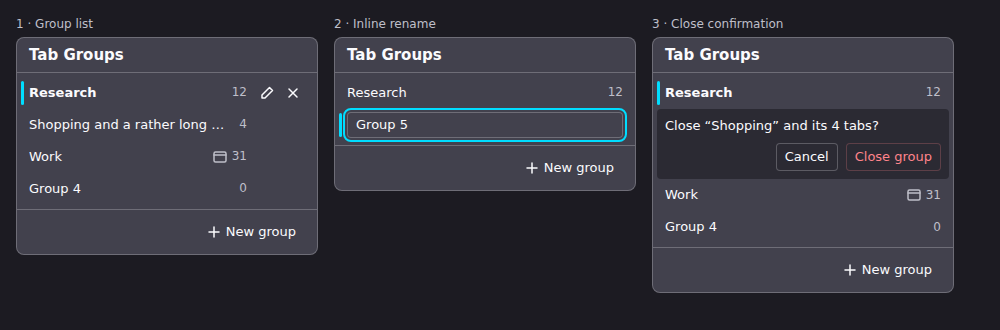
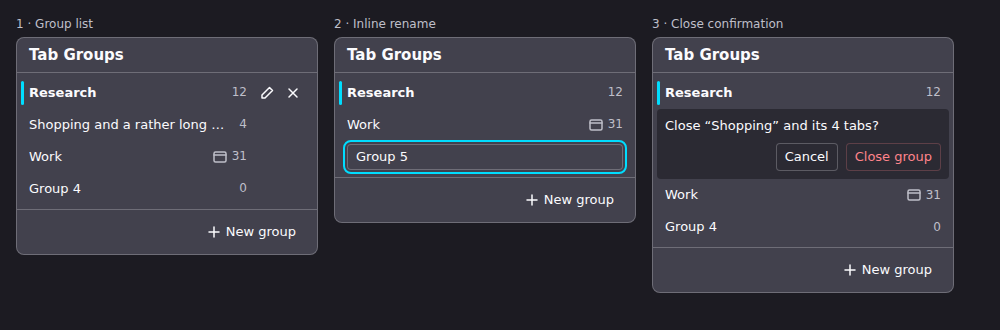
docs(spec): address spec review for group core
D9 hides tabs of inactive groups instead of adopting them, D8 is the only
window-invariant exception, D15 no longer switches, D5 serialises through
Web Locks; architecture flows 1 and 4 and the fakes row follow the spec.

Changed region(s): [[0.341, 0.2727, 0.651, 0.5455], [0.31, 0.5758, 0.651, 0.697]]

diff --git a/docs/design/prototypes/group-core.html b/docs/design/prototypes/group-core.html
@@ -230,7 +230,7 @@
       <symbol id="i-window" viewBox="0 0 16 16"><rect x="2" y="3" width="12" height="10" rx="1.5" /><path d="M2 6h12" /></symbol>
     </svg>
 
-    <!-- Frame 1: group list (D17 marker, D21 counts, active-elsewhere marker) -->
+    <!-- Frame 1: group list (D20 active-here / active-elsewhere markers, D21 counts) -->
     <figure>
       <figcaption>1 · Group list</figcaption>
       <div class="popup">
@@ -284,16 +284,19 @@
       </div>
     </figure>
 
-    <!-- Frame 2: inline rename (D15 after create, D16 Enter/blur saves, Escape cancels) -->
+    <!-- Frame 2: inline rename right after "New group" (D15: appended, no switch; D16 Enter/blur saves, Escape cancels) -->
     <figure>
       <figcaption>2 · Inline rename</figcaption>
       <div class="popup">
         <header class="bar bar--header"><h1>Tab Groups</h1></header>
         <ul class="list" aria-label="Groups">
-          <li class="row">
-            <button class="row__switch"><span class="row__title">Research</span><span class="row__meta" aria-hidden="true">12</span><span class="visually-hidden">12 tabs</span></button>
-          </li>
           <li class="row row--active">
+            <button class="row__switch" aria-current="true"><span class="row__title">Research</span><span class="row__meta" aria-hidden="true">12</span><span class="visually-hidden">12 tabs</span></button>
+          </li>
+          <li class="row">
+            <button class="row__switch"><span class="row__title">Work</span><span class="row__meta" aria-hidden="true"><svg class="icon"><use href="#i-window" /></svg>31</span><span class="visually-hidden">31 tabs, open in another window</span></button>
+          </li>
+          <li class="row">
             <input class="input" type="text" value="Group 5" aria-label="Group name" autofocus />
           </li>
         </ul>

diff --git a/docs/specs/spec-group-core.md b/docs/specs/spec-group-core.md
@@ -12,15 +12,18 @@ A completed spec is moved to `docs/specs/archive/`.
 
 ## Outcome
 
-- [ ] `test/fakes/` provides in-memory fakes of `tabs`, `windows`, `sessions`,
-      `storage` (`local` and `session`) and `action`, each with a `reset()`, plus
-      contract tests that encode the observed Firefox behaviour listed under
-      Constraints (F1–F9).
+- [ ] `test/fakes/` provides in-memory fakes of `tabs` (incl. `hidden`,
+      `pinned`, `active`, `discarded`, `lastAccessed`, native `groupId`,
+      `ungroup`, sharing state), `windows`, `sessions`, `storage` (`local` and
+      `session`), `action`, `runtime` (messages, `onStartup`), `i18n` and a
+      Web Locks stand-in, each with a `reset()`, plus `simulateRestart()` and
+      `simulateDisableEnable()` (see Verification), and contract tests that
+      encode the observed Firefox behaviour listed under Constraints (F1–F10).
 - [ ] On first start every open normal window gets its own group that holds all
       of its non-pinned tabs; no tab is hidden by the first start.
 - [ ] Every window shows exactly one group. Every visible non-pinned tab belongs
-      to its window's active group (the **window invariant**); a group is active
-      in at most one window.
+      to its window's active group, except tabs `tabs.hide` skipped (D8) — the
+      **window invariant**; a group is active in at most one window.
 - [ ] Switching a window to another group shows exactly that group's tabs and
       hides the previous group's tabs. Pinned tabs stay visible and ungrouped.
 - [ ] Switching to a group that is active in another window focuses that window
@@ -36,11 +39,14 @@ A completed spec is moved to `docs/specs/archive/`.
 - [ ] The popup lists all groups in stored order with title, tab count, a marker
       for the current window's active group and a marker for groups active in
       another window; the user can switch, create, rename, and close groups from
-      it. Closing the last group leaves one new empty default group.
+      it. Closing the last group leaves one new default group with one new tab.
 - [ ] The toolbar badge shows the number of groups; the toolbar tooltip names the
       current window's active group.
 - [ ] A group switch in a window with 200 tabs completes in under 500 ms.
-- [ ] Every user-facing string exists in the `en` and `de` locales.
+- [ ] Every user-facing string exists in the `en` and `de` locales (keys listed
+      in D25).
+- [ ] `docs/architecture.md` flows 1 and 4 and the `test/fakes/` row match this
+      spec (updated in the spec PR).
 
 ## Scope
 
@@ -53,7 +59,7 @@ A completed spec is moved to `docs/specs/archive/`.
 - Window reconciliation on first install, browser start, extension enable, and
   for windows the user opens or restores.
 - New, attached, and restored tabs.
-- Operation queue with event deferral.
+- Operation serialisation with event deferral (Web Locks, D5).
 - Minimal popup: group list, switch, create, rename, close (incl. last and empty
   group), with tokens in `src/shared/tokens.css`.
 - Toolbar badge and tooltip.
@@ -76,7 +82,8 @@ A completed spec is moved to `docs/specs/archive/`.
 ## Constraints
 
 - `docs/constitution.md` applies in full; in particular: no mutable module-level
-  state except the operation queue it mandates, `src/core/` free of `browser`,
+  state (D5 serialises through Web Locks instead of a module variable),
+  `src/core/` free of `browser`,
   `tabs.ungroup` before `tabs.hide` and `tabs.show` before `tabs.group`, tabs of
   a native group ungrouped before `tabs.remove`, no `innerHTML`, all strings via
   `browser.i18n`, 50-line functions, 400-line files.
@@ -109,7 +116,11 @@ A completed spec is moved to `docs/specs/archive/`.
   - F8: No `runtime.onInstalled` on a plain restart or on enable
     (LIFECYCLE §1); windows already exist at background start (CREATE §55).
   - F9: Pinning strips native-group membership; `sessions` values survive pin
-    and unpin (TABGROUPS §19).
+    and unpin (TABGROUPS §19, which also covers the microphone case of F1).
+  - F10 (unverified, confirmed in QA): disabling an extension that hid tabs
+    shows those tabs again; on enable they are visible with their `sessions`
+    values intact (LIFECYCLE: disable → enable fires no event, storage and
+    values survive).
 
 ## Prior art
 
@@ -143,31 +154,31 @@ group count, title = active group name) and the `GroupsFrame` popup actions.
 
 | Decision | Rationale | Date |
 |---|---|---|
-| D1 Persisted layout: `storage.local` holds `{ schemaVersion: 1, groups: [{ id, title }] }`; array order is the group order. Tab value `groupId` (group id string) per tab; window value `activeGroupId` per window. No other persisted state in Phase 1. | Constitution (group list in `storage.local`, membership in `sessions`); first persisted layout, so `SCHEMA_VERSION` stays 1 and no migration is needed. | 2026-10-14 |
-| D2 Group id = `crypto.randomUUID()`. | STG precedent (`createId`); no counter to serialise, ids stay unique across import later. | 2026-10-14 |
-| D3 Default title = i18n `defaultGroupTitle` ("Group $1" / "Gruppe $1") with the smallest positive integer whose title is not in use. | Readable, stable, no UUID fragments; PTG's "N: Unnamed group" mixed id and name. | 2026-10-14 |
-| D4 The window invariant: every visible non-pinned tab belongs to its window's active group. All event handlers and reconciliation enforce it after re-reading state; handlers are idempotent instead of using skip flags. | Constitution (no module state, re-read on each event); makes late events of own actions (F4) harmless. | 2026-10-14 |
-| D5 Operation queue: one promise chain in the background serialises every state-changing operation, including event handlers; an event that arrives while an operation runs is queued behind it and evaluated against re-read state. The chain tail is the only module-level mutable value. | Constitution mandates the queue; it carries no domain state and does not outlive the event page. | 2026-10-14 |
-| D6 Switch order in window W from group A to B: (1) if B is active in another window, focus it and stop; (2) move B's tabs hidden in other windows to the end of W as one block, re-write their `sessions` values (F3); (3) `tabs.show` B's tabs; (4) activate B's most recently accessed tab, or create one new tab in W without `url` if B is empty (F6); (5) set W's `activeGroupId` = B; (6) `tabs.ungroup` A's natively grouped tabs; (7) `tabs.hide` A's tabs; (8) update tooltip. `tabs.show`/`tabs.hide`/`tabs.move` are called once per switch with id arrays. | STG `applyNow` order; F1 (activate before hide); constitution (ungroup before hide); batched calls for the 200-tab target. | 2026-10-14 |
-| D7 Pinned tabs carry no membership, are never hidden, and are ignored by every count and plan. A tab that gets pinned loses its `groupId` value; a tab that gets unpinned joins its window's active group. | STG precedent (DESIGN-GROUPS §1); F9. | 2026-10-14 |
-| D8 Tabs that `tabs.hide` skipped (sharing camera/microphone/screen) keep their membership and stay visible; the switch still completes. The next switch or reconciliation in that window hides them again. Marking them in the popup is Phase 5. | F1; avoids STG's auto-pinning, which changes the user's tab state. | 2026-10-14 |
-| D9 Reconciliation of a window (runs for every window on start, and for a window from `windows.onCreated`): resolve the active group — the stored `activeGroupId` if it exists and no other window has it, else a new default group; assign every visible non-pinned tab without a valid membership, or with another group's membership, to it; show hidden tabs of the active group; leave hidden tabs of other groups hidden unless that group is active in another window, then move them there; assign hidden tabs without a valid membership to the active group and show them. On first install with an empty group list, each window gets a new group. | Enforces D4 everywhere with one routine; F2 and F7 make restored tabs and windows carry their values; never leaves an orphaned tab invisible. | 2026-10-14 |
-| D10 Start detection: at top level the background checks a `storage.session` flag; if it is absent, it queues a full reconciliation of all normal windows and sets the flag. | F8 — `onInstalled`/`onStartup` miss enable after disable; `storage.session` is cleared on restart, reload, and disable, and is not module state. | 2026-10-14 |
-| D11 New and attached tabs: `tabs.onCreated`, `tabs.onAttached`, and `tabs.onUpdated` (`pinned`, `hidden`) queue a re-check of that tab against D4. A hidden tab with a valid membership is left alone. A tab dragged into another window joins that window's active group. | STG `onAttached` precedent; D4. Covers undo-close-tab (visible restored tab joins the window's group) and restored windows (F7). | 2026-10-14 |
+| D1 Persisted layout: `storage.local` holds `{ schemaVersion: 1, groups: [{ id, title }] }`; array order is the group order. Tab value `tgGroupId` (group id string) per tab; window value `tgActiveGroupId` per window; `storage.session` key `tgStarted` (D10). No other persisted state in Phase 1. | Constitution (group list in `storage.local`, membership in `sessions`); first persisted layout, so `SCHEMA_VERSION` stays 1 and no migration is needed. The `tg` prefix keeps the keys apart from the native `tab.groupId` and PTG's legacy `groupId`. | 2026-10-14 |
+| D2 Group id = `crypto.randomUUID()`. | STG precedent (`createId`); no counter to serialise, ids stay unique across import later. Replaces assumption A6 (counter per window) of the grilling session. | 2026-10-14 |
+| D3 Default title = i18n `defaultGroupTitle` ("Group $1" / "Gruppe $1") with the smallest positive integer whose title is not in use. `src/core/` receives a `formatTitle(n)` function as a parameter and never calls `i18n`. | Readable, stable, no UUID fragments; PTG's "N: Unnamed group" mixed id and name; core stays free of `browser`. | 2026-10-14 |
+| D4 The window invariant: every visible non-pinned tab belongs to its window's active group, except tabs `tabs.hide` skipped (D8). All event handlers and reconciliation enforce it after re-reading state; handlers are idempotent instead of using skip flags. | Constitution (no module state, re-read on each event); makes late events of own actions (F4) harmless. | 2026-10-14 |
+| D5 Serialisation: every state-changing operation, including event handlers, runs inside `navigator.locks.request("tab-groups-op", fn)`; an event that arrives while an operation runs waits for the lock and is evaluated against re-read state. The lock function is injected so tests use an in-memory fake. A rejected operation is caught and logged, releases the lock, and queues a D9 reconciliation of the affected window(s), so a half-applied switch is repaired at once. | Constitution: serialising queue without mutable module-level state — the lock queue lives in the browser, not in a module variable; Web Locks exist in Firefox ≥ 96 on secure `moz-extension:` pages. | 2026-10-14 |
+| D6 Switch order in window W from group A to B: (1) if B is active in another window, focus it and stop; (2) move B's tabs hidden in other windows to the end of W as one block, re-write their `sessions` values (F3); (3) `tabs.show` B's tabs; (4) activate B's most recently accessed tab (`lastAccessed`), or create one new tab in W without `url` if B is empty (F6); (5) set W's `tgActiveGroupId` = B; (6) `tabs.ungroup` A's natively grouped tabs; (7) `tabs.hide` A's tabs; (8) update W's tooltip. `tabs.show`/`tabs.hide`/`tabs.move` are called once per switch with id arrays. `docs/architecture.md` flow 1 is updated to this order. | STG `applyNow` order; F1 (activate before hide); constitution (ungroup before hide, show before group); batched calls for the 200-tab target. | 2026-10-14 |
+| D7 Pinned tabs carry no membership, are never hidden, and are ignored by every count and plan. A tab that gets pinned loses its `tgGroupId` value; a tab that gets unpinned joins its window's active group. | STG precedent (DESIGN-GROUPS §1); F9. | 2026-10-14 |
+| D8 Tabs that `tabs.hide` skipped (sharing camera/microphone/screen) keep their membership and stay visible; the switch still completes. They are the only exception to D4. The next switch or reconciliation in that window tries to hide them again (D9 "hide, keep membership"). Marking them in the popup is Phase 5. | F1; avoids STG's auto-pinning, which changes the user's tab state. | 2026-10-14 |
+| D9 Reconciliation of a window (runs for every normal window on start, and for a window from `windows.onCreated`): (a) resolve the active group — the stored `tgActiveGroupId` if the group exists and no other window keeps it (on a tie the focused window keeps it, else the one with the lowest window id), else a new default group; (b) a tab (visible or hidden) without a valid membership joins the active group; (c) tabs of the active group are shown; (d) tabs of another group that is active in another window move there; (e) tabs of another group that is active nowhere are hidden and keep their membership — this also re-hides tabs Firefox showed while the extension was disabled (F10) and sharing tabs (D8). On first install with an empty group list, each window gets a new group that adopts its tabs via (b). | Enforces D4 with one routine; F2, F7, F10 make restored and re-shown tabs carry their values, so memberships survive restart and disable/enable (vision: 0 lost assignments); never leaves an orphaned tab invisible. `docs/architecture.md` flow 4 is updated. | 2026-10-14 |
+| D10 Start detection: the top level registers `runtime.onStartup` and `runtime.onInstalled` listeners and also runs the check once at top level; the check reads `storage.session` key `tgStarted` and, if it is absent, sets it and runs D9 for all normal windows inside the lock. | F8 — `onInstalled`/`onStartup` miss enable after disable; `storage.session` is cleared on restart, reload, and disable and is not module state; the `onStartup` listener makes Firefox wake the event page at launch. | 2026-10-14 |
+| D11 Tab events: `tabs.onCreated`, `tabs.onAttached`, and `tabs.onUpdated` (filter `properties: ["pinned", "hidden"]`) re-check that one tab inside the lock: a hidden tab with a valid membership is left alone; a visible non-pinned tab without a valid membership, or with another group's membership, joins its window's active group (it is reassigned, never switched to). This covers new tabs, tabs dragged into another window, undo-close-tab, and a hidden tab the user shows from the all-tabs list. Tabs in non-`normal` windows are ignored. Window-wide repair stays D9's job. | STG `onAttached` precedent; D4. Restored windows keep their values (F7), so their visible tabs already match the restored active group. | 2026-10-14 |
 | D12 A user-opened normal window gets a new default group via D9 that adopts its tabs. | Vision: every window shows exactly one group; STG's "window without group" mode contradicts it. | 2026-10-14 |
 | D13 Phase 1 ungroups natively grouped tabs before hiding them without recording the native group; record and restore arrive in Phase 2. | Constitution rule (ungroup before hide) is binding; leaving native groups intact would leave dead headers (vision problem statement). Phase 1 is not released (first release after Phase 4, `docs/roadmap.md`). | 2026-10-14 |
 | D14 Closing a group: if it is active in a window, that window first switches to the next group in list order that is not active elsewhere (the previous one for the last row); if none exists, to a new default group. Then the group's natively grouped tabs are ungrouped, its tabs removed with one `tabs.remove`, and the group deleted from the list. A group with tabs asks for an inline confirmation in the popup; an empty group closes without one. | Switching first keeps the window alive (F5); ungroup before remove (constitution, avoids saved groups); inline confirmation per `docs/design.md`; A5 of the grilling session. | 2026-10-14 |
-| D15 Creating a group from the popup appends it to the list, switches the current window to it (one new tab), and opens the inline rename field. | PTG `createGroup` precedent. | 2026-10-14 |
+| D15 Creating a group from the popup appends it with a D3 title and opens the inline rename field in its row; the current window does not switch. Enter or blur saves (D16); switching is a separate click. | Resolves the conflict with D20 (popup closes on switch) and avoids depending on the popup surviving tab activation. | 2026-10-14 |
 | D16 Rename is inline: Enter or blur saves a trimmed non-empty title, Escape cancels; an empty title keeps the old one. | PTG precedent; no empty titles in the list. | 2026-10-14 |
-| D17 Badge text = number of groups (global); tooltip per window = i18n `actionTitle` ("Tab Groups — $1" with the active group title) via `action.setTitle({ windowId })`. Badge background uses the token `muted`. | PTG `setActionTitle` precedent adapted to global groups; i18n instead of PTG's hard-coded string. | 2026-10-14 |
+| D17 Badge text = number of groups (global, `action.setBadgeText` without `windowId`); badge colour stays the Firefox default. Tooltip per window = i18n `actionTitle` ("Tab Groups — $1" with the active group title) via `action.setTitle({ windowId })`. | PTG `setActionTitle` precedent adapted to global groups; i18n instead of PTG's hard-coded string; a light/dark token pair cannot be passed to `setBadgeBackgroundColor`. | 2026-10-14 |
 | D18 Private windows are not supported: `"incognito": "not_allowed"`. | STG precedent; tabs cannot move between private and normal windows, which breaks global groups. Replaces assumption A4 of the grilling session. | 2026-10-14 |
 | D19 Permissions: `storage` (group list, start flag), `sessions` (membership, active group), `tabHide` (`tabs.hide`). No `tabs` permission: Phase 1 shows no tab titles or URLs. No host permissions. | Constitution: every new permission justified in its spec; least privilege. | 2026-10-14 |
-| D20 The popup reads state through a `getState` message (groups with id, title, tab count, active-here, active-elsewhere) and sends `switchGroup`, `createGroup`, `renameGroup`, `closeGroup`; it re-renders from each response. After a switch or a focus change the popup closes. | Architecture boundary (popup only via `shared` messages); no live sync needed for a short-lived popup. | 2026-10-14 |
+| D20 Messages (types in `src/shared/messages.ts`): `getState`, `switchGroup { groupId }`, `createGroup`, `renameGroup { groupId, title }`, `closeGroup { groupId }`, each with `windowId`. State = `{ groups: [{ id, title, tabCount, activeHere, activeElsewhere }] }`. The popup re-renders from each response. After `switchGroup` the popup closes. | Architecture boundary (popup only via `shared` messages); no live sync needed for a short-lived popup. | 2026-10-14 |
 | D21 The popup reads its window id once with `windows.getCurrent()` (read-only) and sends it with every message. Each response is `{ ok: true, state }` or `{ ok: false, error }`; on `ok: false` the popup logs the error and re-renders from a fresh `getState`. Tab count = non-pinned tabs with that membership in all windows, hidden ones included. | Architecture allows read-only access; the background must know which window acts. | 2026-10-14 |
-| D22 Badge text is refreshed after reconciliation, create, and close; tooltips after reconciliation, switch, rename, and close. `tabs.onUpdated` listens with the filter `properties: ["pinned", "hidden"]`. | Only these operations change the shown values; the filter keeps the event page asleep on unrelated updates. | 2026-10-14 |
-| D23 Build: `scripts/build.mjs` gains the entry `popup` (`src/popup/index.ts`) and copies `src/popup/popup.html` and `src/shared/tokens.css`; the manifest gets `action.default_popup` and `action.default_title`. | Existing esbuild script stays the single build path (constitution tech stack). | 2026-10-14 |
-| D24 Closing a window (or its last visible tab, F5) closes the hidden tabs of other groups stored in that window; Phase 1 accepts this. Groups stay in the list (possibly empty); reopening the window through Firefox "Recently closed windows" brings the tabs back with their membership, and D9 reconciles the restored window. Recovering the tabs automatically (STG `tryRestoreMissedTabs` approach) is a separate later roadmap phase, seeded via `/loopkit:roadmap`. | Resolved at the spec-acceptance gate by the maintainer: Phase 1 is not released; automatic recovery needs the closed tabs' URLs and memberships, which the event page cannot read after the close without a persisted snapshot — a design question of its own. | 2026-10-14 |
-
+| D22 Badge text is refreshed after reconciliation, create, and close; tooltips after reconciliation, switch, rename, and close. | Only these operations change the shown values. | 2026-10-14 |
+| D23 Build: `scripts/build.mjs` gains the entry `popup` (`src/popup/index.ts`) and copies `src/popup/popup.html` and `src/shared/tokens.css`; the manifest gets `action.default_popup` (`popup.html`) and `action.default_title` (`__MSG_extensionName__`). | Existing esbuild script stays the single build path (constitution tech stack). | 2026-10-14 |
+| D24 Closing a window (or its last visible tab, F5) closes the hidden tabs of other groups stored in that window; Phase 1 accepts this. Groups stay in the list (possibly empty); reopening the window through Firefox "Recently closed windows" brings the tabs back with their membership, and D9 reconciles the restored window. Recovering the tabs automatically (STG `tryRestoreMissedTabs` approach) is a separate later roadmap phase, seeded via `/loopkit:roadmap` before Phase 4 (first release), because the roadmap north star promises no lost tab. | Resolved at the spec-acceptance gate by the maintainer: Phase 1 is not released; automatic recovery needs the closed tabs' URLs and memberships, which the event page cannot read after the close without a persisted snapshot — a design question of its own. | 2026-10-14 |
+| D25 Locale keys (`en` and `de`): `extensionName`, `extensionDescription`, `defaultGroupTitle`, `actionTitle`, `popupTitle`, `newGroup`, `renameGroup` / `closeGroup` (button labels with `$1` = group title), `groupNameLabel`, `tabCountOne` / `tabCountOther` (`$1` tabs; `One` for n = 1, `Other` otherwise — correct for `en` and `de`), `activeElsewhere`, `closeGroupConfirm` (`$1` title, `$2` tab count text), `cancel`, `closeGroupAction`. | Constitution: every user-facing string via `browser.i18n`, both locales complete; `browser.i18n` has no plural rules. | 2026-10-14 |
 ## Design
 
 - Switch sequence (D6):
@@ -175,7 +186,7 @@ group count, title = active group name) and the `GroupsFrame` popup actions.
 ```mermaid
 sequenceDiagram
   participant P as Popup
-  participant Q as Background queue
+  participant Q as Background (lock)
   participant C as core planner
   participant X as platform executor
   P->>Q: switchGroup(B)
@@ -185,9 +196,9 @@ sequenceDiagram
   Q->>X: move B tabs into W (rewrite values)
   Q->>X: show B tabs
   Q->>X: activate B tab / create new tab
-  Q->>X: set W activeGroupId = B
+  Q->>X: set W tgActiveGroupId = B
   Q->>X: ungroup A tabs, hide A tabs
-  Q->>X: update badge + tooltip
+  Q->>X: update W tooltip
   Q-->>P: done (popup closes)
 ```
 
@@ -212,7 +223,7 @@ Each issue references this spec path in its body.
 ## Verification
 
 - [ ] `npm run verify` passes, including the 80 % line coverage of `src/core/`.
-- [ ] Fake contract tests cover F1–F9.
+- [ ] Fake contract tests cover F1–F9; F10 is modelled by `simulateDisableEnable()` and confirmed in QA.
 - [ ] Unit tests of the core planners cover: switch with active tab in the
       outgoing group, switch to an empty group, switch to a group hidden in
       another window, switch to a group active elsewhere (focus only), sharing
@@ -220,20 +231,26 @@ Each issue references this spec path in its body.
       last / an empty group, D3 default titles, D9 reconciliation cases (missing,
       unknown, duplicate active group; orphan visible and hidden tabs; tabs of a
       group active elsewhere).
-- [ ] Integration tests against the fakes: first install with two windows;
-      new tab and attached tab join the active group; a fake restart (new tab
-      and window ids, values and hidden state kept, `storage.session` cleared)
-      loses 0 assignments; one switch issues one `tabs.hide` and one
+- [ ] Integration tests in `test/integration/` against the fakes, importing
+      the background entry after `vi.resetModules()` so the D10 top-level check
+      runs per simulated start: first install with two windows; new tab and
+      attached tab join the active group; `simulateRestart()` (new tab and
+      window ids, `sessions` values and hidden state kept, `storage.session`
+      cleared) loses 0 assignments; `simulateDisableEnable()` (all hidden tabs
+      shown, values kept, `storage.session` cleared) loses 0 assignments and
+      re-hides the inactive groups; an operation that throws mid-switch leaves
+      the window reconciled (D5); one switch issues one `tabs.hide` and one
       `tabs.show` call.
 - [ ] QA in Firefox (`npm start`): first start keeps all tabs visible in one
       group per window; create, rename, switch, and close groups from the popup;
       close the last group; switch to an empty group; switch to a group active in
       another window focuses it; restart Firefox and confirm every window shows
-      its previous group with all tabs; disable and enable the extension;
-      badge and tooltip match.
+      its previous group with all tabs; disable the extension (confirm F10:
+      hidden tabs appear) and enable it again (inactive groups hidden again,
+      memberships kept); badge and tooltip match.
 - [ ] QA in Firefox: a window with 200 tabs (two groups of 100) switches in
       under 500 ms (measured in the background console with
-      `performance.now()` around the queued operation).
+      `performance.now()` around the locked operation).
 - [ ] QA in Firefox: the popup in light and dark mode and with `forced-colors`
       matches the design artifact; every action works by keyboard.
 
@@ -241,7 +258,7 @@ Each issue references this spec path in its body.
 
 | Risk | Mitigation |
 |---|---|
-| Fakes diverge from Firefox behaviour | Contract tests encode F1–F9 from the STG behaviour docs; QA runs every flow in real Firefox. |
+| Fakes diverge from Firefox behaviour | Contract tests encode F1–F10 from the STG behaviour docs; QA runs every flow in real Firefox. |
 | Late events of own operations re-trigger work (F4) | D4/D11 idempotent re-checks against re-read state instead of skip flags. |
 | Event page unloads during a long operation | Firefox keeps the page alive while listeners run and promises are pending; every operation is short and re-reads state, so a restart resumes via D10. |
 | Native groups are lost on switch until Phase 2 | D13; Phase 1 is not released. |
@@ -254,6 +271,11 @@ Each issue references this spec path in its body.
   D17, D18; findings recorded under Prior art.
 - 2026-10-14: Spec-acceptance gate — window close (D24) resolved by the
   maintainer: accept in Phase 1, automatic recovery as a later roadmap phase.
+- 2026-10-14: Spec review (REQUEST_CHANGES) addressed: D9 hides tabs of
+  inactive groups instead of adopting them (disable/enable, F10); D8 is the
+  only D4 exception; D15 no longer switches (conflict with D20); D5 uses Web
+  Locks instead of a module-level promise chain (constitution); architecture
+  flows 1 and 4 and the fakes row updated; keys prefixed `tg`; D25 locale keys.
 - 2026-10-14: Design review of the popup prototype — row actions use opacity
   instead of `visibility` so they stay keyboard- and screen-reader-reachable;
   tab counts carry visually hidden text; destructive text only on the

diff --git a/docs/architecture.md b/docs/architecture.md
@@ -9,12 +9,12 @@
 | --------- | -------------- |
 | `src/core/` | Pure domain logic, no `browser`: group model, switch planning (which tabs to ungroup, hide, show, re-group), native-group reconciliation incl. the "first tab wins" conflict rule, backup parsers/converters (PTG `panoramaView` v1/v2, legacy "Tab Groups", own format v1), in-place migration matching, literal search, schema migrations |
 | `src/platform/` | Adapters to `browser`: `group-store` (global group list in `storage.local`), `tab-meta` (`sessions` tab/window values: membership, active group per window, native-group records), executor that applies `core` plans through the APIs |
-| `src/background/` | Event page: registers every listener synchronously at top level; operation queue; message handlers; tab context menu; commands; toolbar badge and tooltip |
+| `src/background/` | Event page: registers every listener synchronously at top level; operation serialisation via Web Locks (`navigator.locks`, no module state); message handlers; tab context menu; commands; toolbar badge and tooltip |
 | `src/popup/` | Popup UI: group list and group detail; reads and mutates only via messages to the background |
 | `src/options/` | Import/export and settings page |
 | `src/shared/` | Typed message contracts between popup/options and background; i18n helper |
 | `src/_locales/` | `en` and `de` message catalogues |
-| `test/fakes/` | In-memory fakes of `tabs`, `sessions`, `tabGroups`, `windows`, `storage`, `menus`, plus contract tests encoding observed Firefox behaviour |
+| `test/fakes/` | In-memory fakes of the browser APIs in use, grown per phase (Phase 1: `tabs`, `windows`, `sessions`, `storage`, `action`, `runtime`, `i18n`, Web Locks; later `tabGroups`, `menus`), with restart and disable/enable simulation, plus contract tests encoding observed Firefox behaviour |
 
 ## Boundaries
 
@@ -23,26 +23,32 @@
 - `background` depends on `core` and `platform`.
 - `popup` and `options` depend only on `shared`; they never call `tabs`,
   `sessions`, or `storage` to change state.
-- Every state change runs through the background operation queue; browser
+- Every state change runs through the background operation lock; browser
   events arriving during an own operation are deferred and re-evaluated against
   re-read state.
 
 ## Key flows
 
-1. **Group switch** — popup/command message → queue → read state → `core` plans
-   the switch → executor: activate a tab of the target group (create one if the
-   group is empty), record and ungroup the outgoing group's native groups, hide
-   its tabs, show the target group's tabs, re-group and `tabGroups.update` its
-   native groups, store the window's active group, update badge. If the target
-   group is already open in another window, focus that window instead.
+1. **Group switch** — popup/command message → lock → read state → `core` plans
+   the switch → executor: move the target group's tabs from other windows into
+   this one, show them, re-group and `tabGroups.update` their native groups
+   (Phase 2), activate a tab of the target group (create one if the group is
+   empty), store the window's active group, record and ungroup the outgoing
+   group's native groups, hide its tabs, update the tooltip. If the target
+   group is already open in another window, focus that window instead
+   (`docs/specs/spec-group-core.md` D6).
 2. **New tab** — `tabs.onCreated` → assign the tab to its window's active group.
 3. **User changes native groups** — `tabGroups.onCreated/onUpdated/onRemoved`,
    `tabs.onUpdated` (`groupId`) → deferred while busy → re-read → `core`
    reconciles (one native group belongs to one group; first tab wins) → persist
    native-group records.
-4. **Startup / session restore** — `runtime.onStartup` → per window: resolve the
-   active group, hide all other groups' tabs, restore native groups of the
-   visible group from the stored records.
+4. **Startup / session restore / enable** — a `storage.session` start flag
+   (checked at top level, on `runtime.onStartup` and `runtime.onInstalled`)
+   detects a fresh start → per window (also for windows from
+   `windows.onCreated`): resolve the active group, adopt tabs without a group,
+   show the active group's tabs, move tabs of groups open elsewhere there, hide
+   all other groups' tabs, restore native groups of the visible group from the
+   stored records (`docs/specs/spec-group-core.md` D9, D10).
 5. **Move selected tabs** — `menus.onShown` rebuilds the group entries from the
    group list and calls `menus.refresh`; `menus.onClicked` → all highlighted
    tabs → queue → move (ungroup from native group, reassign, hide if the target

diff --git a/docs/prior-art.md b/docs/prior-art.md
@@ -49,7 +49,7 @@
 
 ### drive4ik/simple-tab-groups — behaviour reference
 
-- Path: `docs/BEHAVIOR-TABGROUPS.md` (facts numbered by section, verified on Firefox 154)
+- Path: `docs/BEHAVIOR-TABGROUPS.md` (facts numbered by section, verified on Firefox 154); also `docs/BEHAVIOR-MOVE-TABS.md`, `BEHAVIOR-CREATE-TABS.md`, `BEHAVIOR-REMOVE-TABS.md`, `BEHAVIOR-LIFECYCLE.md`, `DESIGN-EVENTS.md`, `DESIGN-GROUPS.md` (cited as F1–F10 in `docs/specs/spec-group-core.md`)
 - License: MPL-2.0
 - Verdict: reference-only — read in full before speccing Phase 1; answers V1/V2 of the grilling decisions
 - Date: 2026-10-14
@@ -57,7 +57,7 @@
   - ADOPT §4: hidden tabs keep their `groupId`; a group with all tabs hidden leaves an unremovable empty header — ungroup before hide
   - ADOPT §3: group only visible tabs (`tabs.group` on hidden tabs yields an empty header); order of `tabIds` sets in-group order
   - ADOPT §5: native group ids are not settable and change on re-group/restore — use an own stable key
-  - ADOPT §9: ungrouping the last member removes the group and fires `tabGroups.onRemoved`
+  - ADOPT §9: ungrouping the last member removes the group and fires `tabGroups.onRemoved`; `tabs.hide` silently skips the active tab and resolves with the ids it hid
   - ADOPT §26: `tabs.remove` over a whole group or closing a window creates an API-invisible "saved group"; `tabs.ungroup` does not — ungroup before removing
   - ADOPT §1/§2/§11/§20: `tabs.move` changes membership based on the tab at the target slot; batch moves to `index: -1` can pull tabs into a group
   - ADOPT §14/§17: some changes fire no events — re-read tab state instead of trusting events alone
